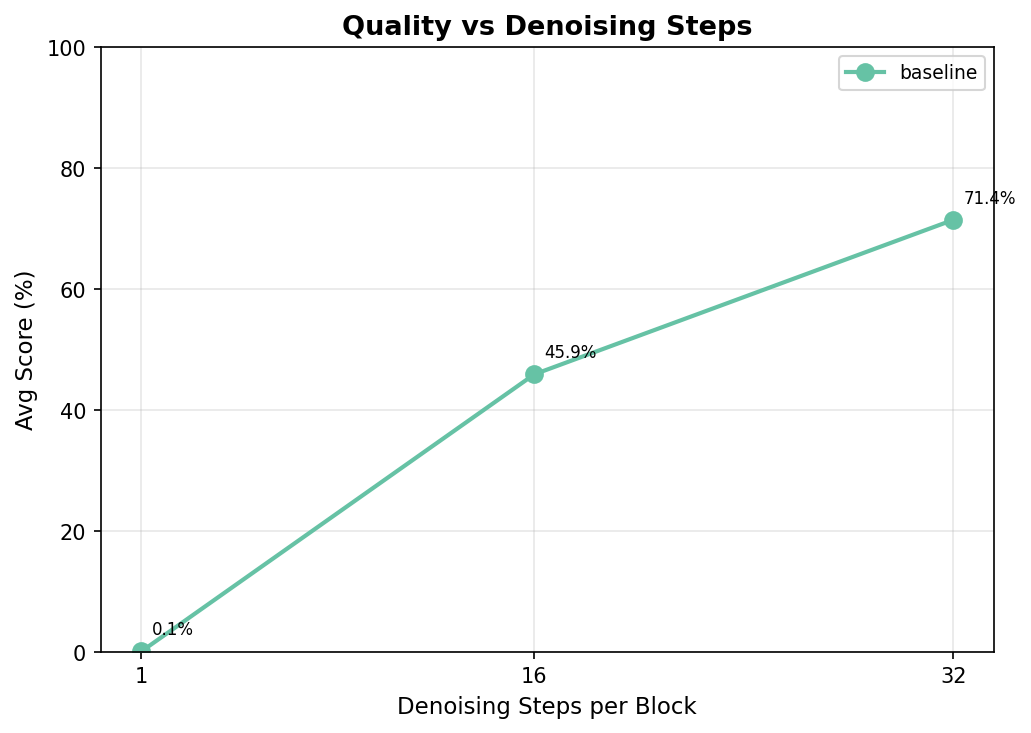
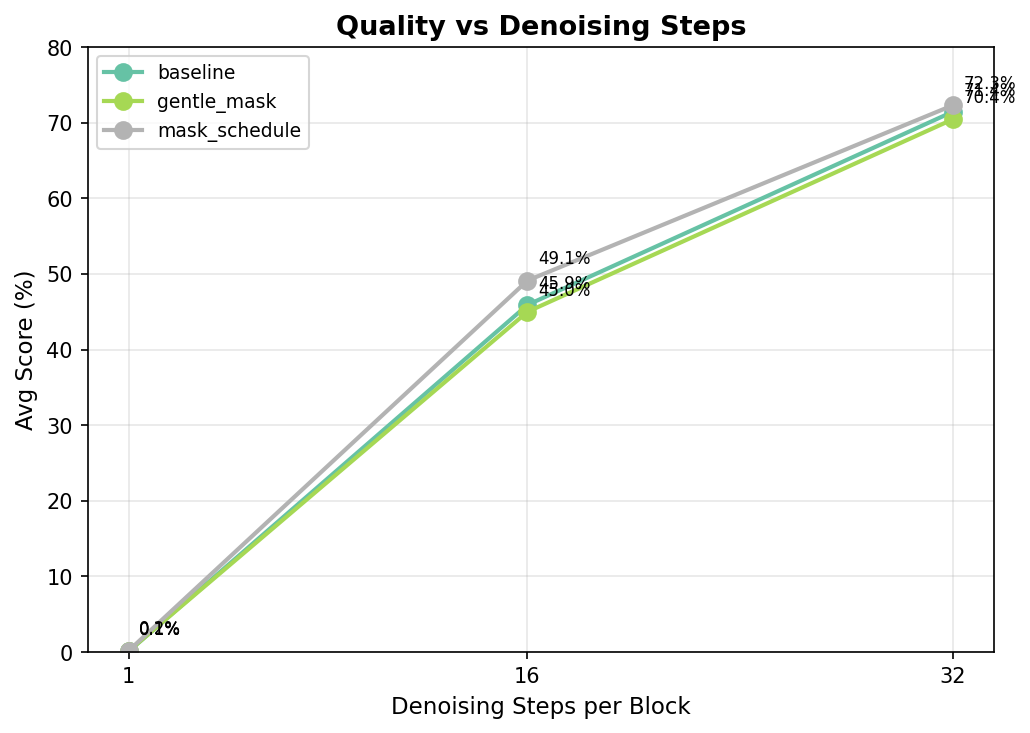
update the autoresearch results.

diff --git a/autoresearch/plot_results.py b/autoresearch/plot_results.py
@@ -86,7 +86,7 @@ def plot_steps_scaling(all_results: Dict, output_path: str):
     ax.set_ylabel("Avg Score (%)", fontsize=11)
     ax.set_title("Quality vs Denoising Steps", fontsize=13, fontweight="bold")
     ax.set_xticks(sorted({s for exp in all_results.values() for s in exp}))
-    ax.set_ylim(0, 100)
+    ax.set_ylim(0, 80)
     ax.grid(alpha=0.3)
     ax.legend(fontsize=9)
     fig.tight_layout()

diff --git a/autoresearch/RESULTS.md b/autoresearch/RESULTS.md
@@ -2,27 +2,34 @@
 
 > Auto-updated by the agent after each evaluation. Single source of truth for comparing experiments.
 
-![Results Plot](results_plot.png)
 
 ## Leaderboard — 32 denoising steps per block (AR-equivalent)
 
 | Rank | Experiment | Checkpoint | MBPP | MBPP+ | GSM8k Strict | GSM8k Flex | Avg | Date |
 |------|-----------|-----------|------|-------|-------------|------------|-----|------|
-| 0 | **baseline** | `ministral_3b_v3/iter_0005000` | 56.40% | 69.31% | 79.53% | 80.52% | 71.44% | 2026-04-07 |
+| 1 | **mask_schedule** | `ministral_3b_v2_iter5k/iter_0005000` | 55.20% | 70.90% | 81.27% | 81.80% | 72.29% | 2026-04-09 |
+| 2 | **baseline** | `ministral_3b_v3/iter_0005000` | 56.40% | 69.31% | 79.53% | 80.52% | 71.44% | 2026-04-07 |
+| 3 | **gentle_mask** | `gentle_mask/iter_0005000` | 55.60% | 69.84% | 77.56% | 78.77% | 70.44% | 2026-04-09 |
 
 ## Leaderboard — 16 denoising steps per block
 
 | Rank | Experiment | Checkpoint | MBPP | MBPP+ | GSM8k Strict | GSM8k Flex | Avg | Date |
 |------|-----------|-----------|------|-------|-------------|------------|-----|------|
-| 0 | **baseline** | `ministral_3b_v3/iter_0005000` | 20.00% | 30.16% | 66.11% | 67.32% | 45.90% | 2026-04-07 |
+| 1 | **mask_schedule** | `ministral_3b_v2_iter5k/iter_0005000` | 26.00% | 34.92% | 67.17% | 68.39% | 49.12% | 2026-04-09 |
+| 2 | **baseline** | `ministral_3b_v3/iter_0005000` | 20.00% | 30.16% | 66.11% | 67.32% | 45.90% | 2026-04-07 |
+| 3 | **gentle_mask** | `gentle_mask/iter_0005000` | 20.40% | 31.75% | 63.08% | 64.75% | 44.99% | 2026-04-09 |
 
 ## Leaderboard — 1 denoising step per block
 
 | Rank | Experiment | Checkpoint | MBPP | MBPP+ | GSM8k Strict | GSM8k Flex | Avg | Date |
 |------|-----------|-----------|------|-------|-------------|------------|-----|------|
-| 0 | **baseline** | `ministral_3b_v3/iter_0005000` | 0.00% | 0.00% | 0.00% | 0.38% | 0.10% | 2026-04-07 |
+| 1 | **mask_schedule** | `ministral_3b_v2_iter5k/iter_0005000` | 0.00% | 0.00% | 0.00% | 0.76% | 0.19% | 2026-04-09 |
+| 2 | **gentle_mask** | `gentle_mask/iter_0005000` | 0.00% | 0.00% | 0.00% | 0.61% | 0.15% | 2026-04-09 |
+| 3 | **baseline** | `ministral_3b_v3/iter_0005000` | 0.00% | 0.00% | 0.00% | 0.38% | 0.10% | 2026-04-07 |
 
 > **Avg** = mean of (MBPP, MBPP+, GSM8k Strict, GSM8k Flex).
+
+<img src="results_plot.png" width="500"/>
 
 ## Inference Config Reference
 
@@ -35,7 +42,10 @@ Default eval settings from `eval_megatron.sh`:
 
 _Updated as experiments complete. Captures high-level learnings to guide future ideas._
 
-- **Denoising steps matter dramatically:** 32 steps ≈ AR quality (71.4% avg), 16 steps drops to 45.9%, and 1 step is near-random (0.1%).
-- **NFE-quality tradeoff:** Going from 32→16 steps halves compute but loses ~25% absolute accuracy. Confidence-based early exit (denoising_threshold) may recover some of this gap.
+- **Denoising steps matter dramatically:** 32 steps ≈ AR quality (70-72% avg), 16 steps drops to 45-49%, and 1 step is near-random (<0.2%).
+- **NFE-quality tradeoff:** Going from 32→16 steps halves compute but loses ~23-25% absolute accuracy.
+- **mask_schedule improves over baseline at 32 steps:** +0.85% avg, driven by GSM8k (+1.7%); MBPP is slightly lower (-1.2%). Gap widens at 16 steps (+3.2% avg).
+- **gentle_mask underperforms both baseline and mask_schedule:** At 32 steps, gentle_mask is ~1% below baseline on avg and ~2% below mask_schedule, with the gap coming mainly from GSM8k (-2% vs baseline, -3.7% vs mask_schedule).
+- **HumanEval and Minerva Math results still pending** for gentle_mask and mask_schedule (v2_iter5k).
 
 _New experiment results are appended below by the agent._
